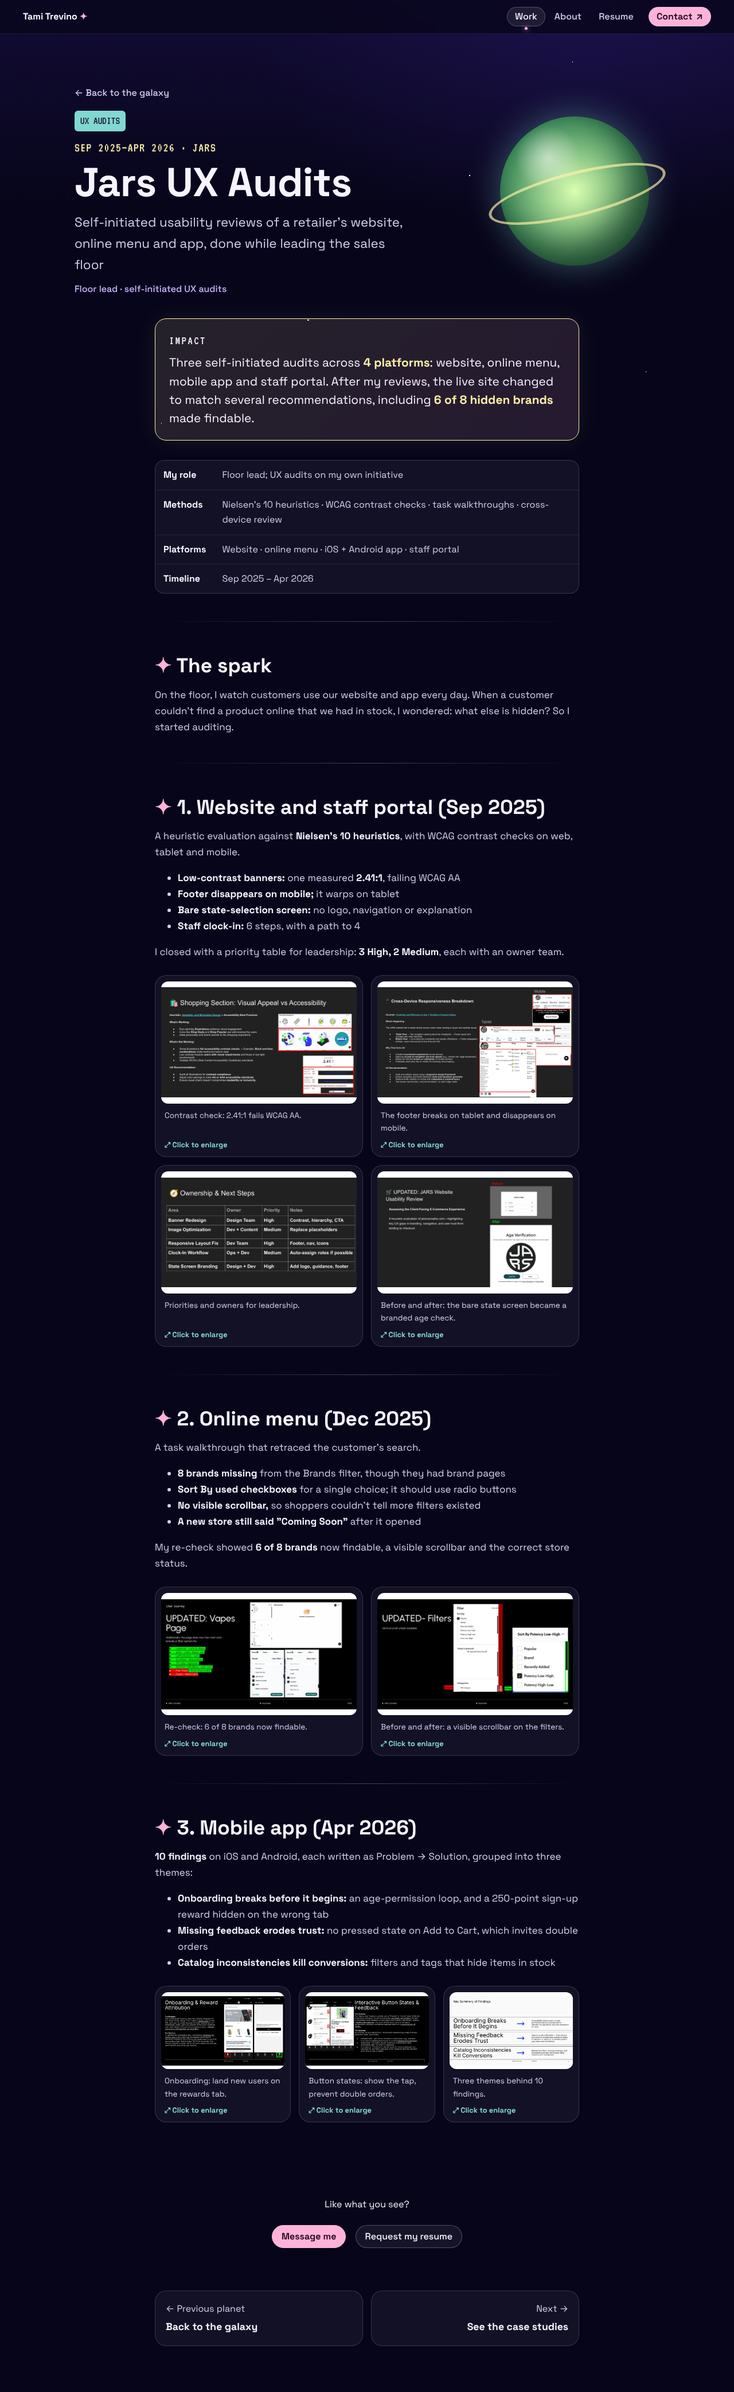
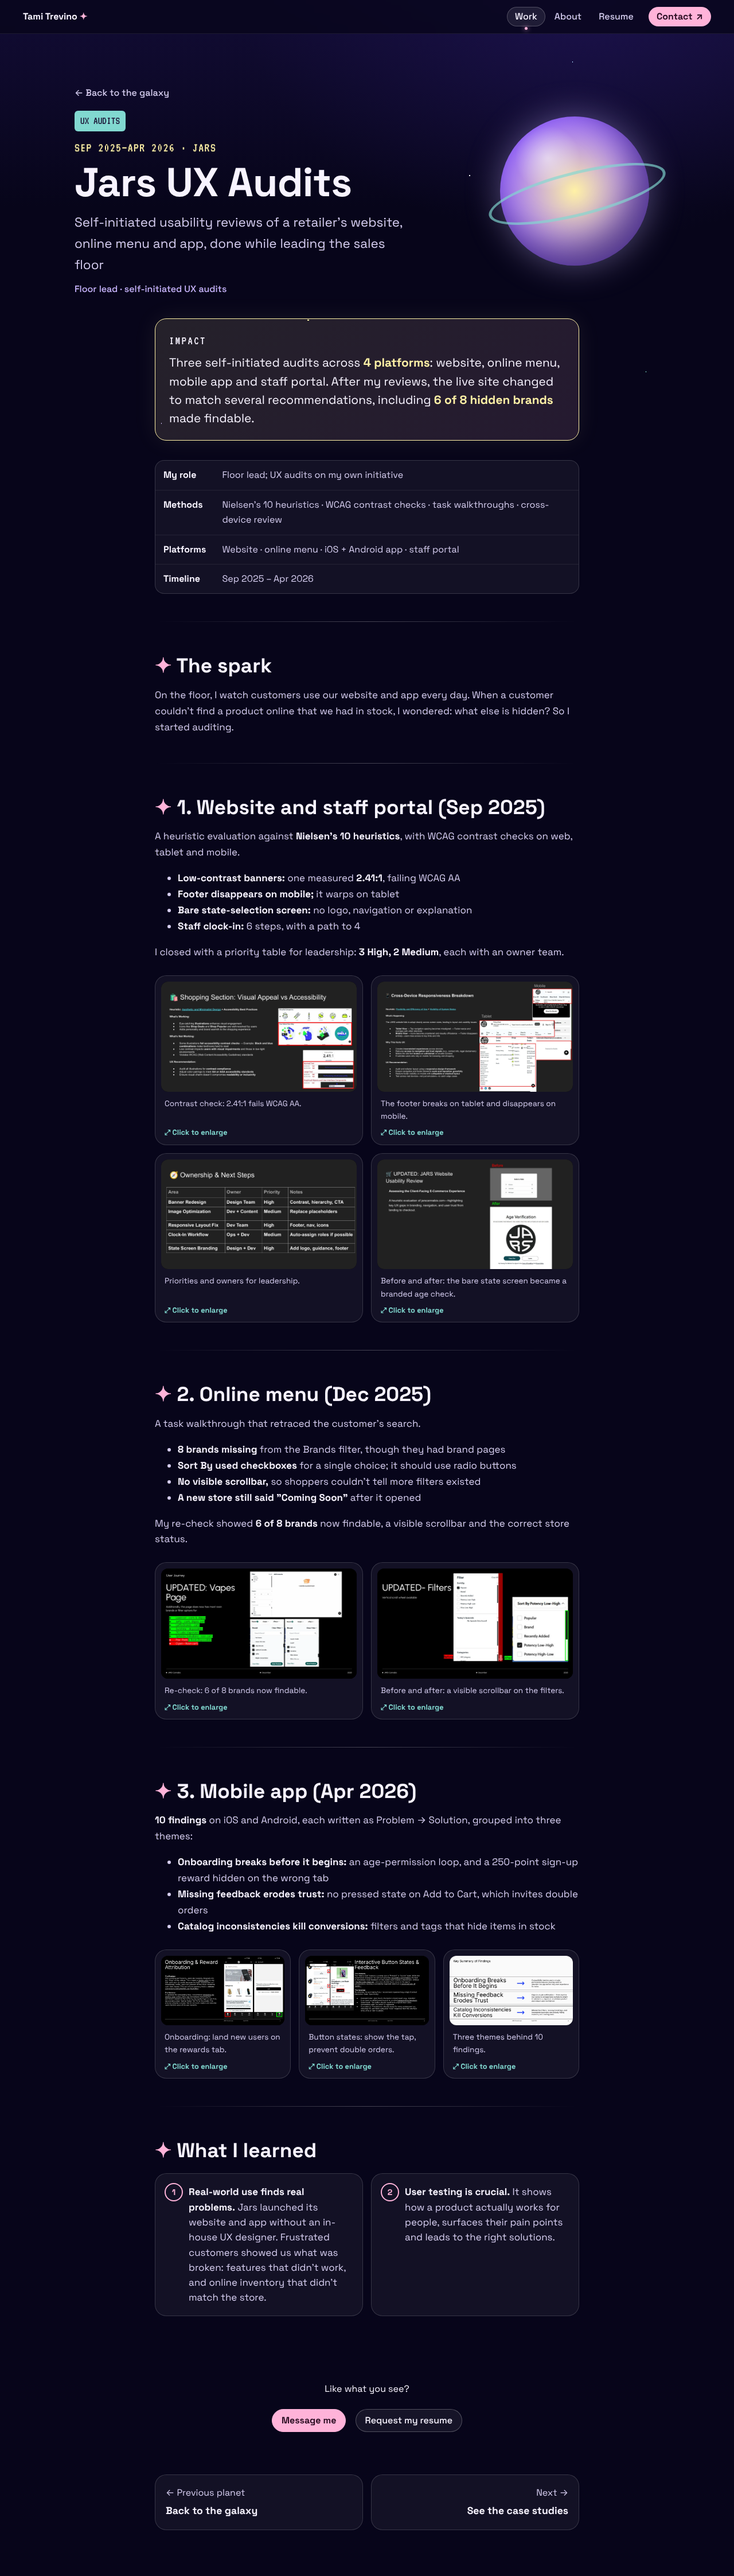
Jars: slide frames match 16:9, no white bars
Claude-Session: https://claude.ai/code/session_0126NKCS3TtysyaQaZxswtoT

diff --git a/site/case-studies/jars-ux-audits.html b/site/case-studies/jars-ux-audits.html
@@ -103,6 +103,7 @@
   .pair.wide figure img{height:auto;aspect-ratio:16/10}
   .pair.portrait .gallery{max-width:560px}
   .pair.portrait figure img{height:auto;aspect-ratio:1493/2000}
+  .pair.slides figure img{aspect-ratio:16/9;background:#000}
   .pair.trio .gallery{grid-template-columns:repeat(3,minmax(0,1fr))}
   @media (max-width:640px){.pair.trio .gallery{grid-template-columns:1fr 1fr}}
   figure img{cursor:zoom-in;transition:transform .35s}
@@ -208,7 +209,7 @@
 <li><strong>Staff clock-in:</strong> 6 steps, with a path to 4</li>
 </ul>
 <p>I closed with a priority table for leadership: <strong>3 High, 2 Medium</strong>, each with an owner team.</p>
-<div class="pair wide">
+<div class="pair wide slides">
 <div class="gallery"><figure><img src="../assets/jars/j01-contrast.webp" alt="Contrast check: 2.41:1 fails WCAG AA." loading="lazy" decoding="async"><figcaption>Contrast check: 2.41:1 fails WCAG AA.</figcaption></figure>
 <figure><img src="../assets/jars/j02-responsive.webp" alt="The footer breaks on tablet and disappears on mobile." loading="lazy" decoding="async"><figcaption>The footer breaks on tablet and disappears on mobile.</figcaption></figure>
 <figure><img src="../assets/jars/j03-priorities.webp" alt="Priorities and owners for leadership." loading="lazy" decoding="async"><figcaption>Priorities and owners for leadership.</figcaption></figure>
@@ -224,7 +225,7 @@
 <li><strong>A new store still said "Coming Soon"</strong> after it opened</li>
 </ul>
 <p>My re-check showed <strong>6 of 8 brands</strong> now findable, a visible scrollbar and the correct store status.</p>
-<div class="pair wide">
+<div class="pair wide slides">
 <div class="gallery"><figure><img src="../assets/jars/j05-brands-recheck.webp" alt="Re-check: 6 of 8 brands now findable." loading="lazy" decoding="async"><figcaption>Re-check: 6 of 8 brands now findable.</figcaption></figure>
 <figure><img src="../assets/jars/j06-filters-before-after.webp" alt="Before and after: a visible scrollbar on the filters." loading="lazy" decoding="async"><figcaption>Before and after: a visible scrollbar on the filters.</figcaption></figure></div>
 </div>
@@ -236,7 +237,7 @@
 <li><strong>Missing feedback erodes trust:</strong> no pressed state on Add to Cart, which invites double orders</li>
 <li><strong>Catalog inconsistencies kill conversions:</strong> filters and tags that hide items in stock</li>
 </ul>
-<div class="pair wide trio">
+<div class="pair wide trio slides">
 <div class="gallery"><figure><img src="../assets/jars/j07-onboarding.webp" alt="Onboarding: land new users on the rewards tab." loading="lazy" decoding="async"><figcaption>Onboarding: land new users on the rewards tab.</figcaption></figure>
 <figure><img src="../assets/jars/j08-button-states.webp" alt="Button states: show the tap, prevent double orders." loading="lazy" decoding="async"><figcaption>Button states: show the tap, prevent double orders.</figcaption></figure>
 <figure><img src="../assets/jars/j09-summary.webp" alt="Three themes behind 10 findings." loading="lazy" decoding="async"><figcaption>Three themes behind 10 findings.</figcaption></figure></div>

diff --git a/site/case-studies/bond-centre.html b/site/case-studies/bond-centre.html
@@ -103,6 +103,7 @@
   .pair.wide figure img{height:auto;aspect-ratio:16/10}
   .pair.portrait .gallery{max-width:560px}
   .pair.portrait figure img{height:auto;aspect-ratio:1493/2000}
+  .pair.slides figure img{aspect-ratio:16/9;background:#000}
   .pair.trio .gallery{grid-template-columns:repeat(3,minmax(0,1fr))}
   @media (max-width:640px){.pair.trio .gallery{grid-template-columns:1fr 1fr}}
   figure img{cursor:zoom-in;transition:transform .35s}

diff --git a/site/case-studies/dental.html b/site/case-studies/dental.html
@@ -103,6 +103,7 @@
   .pair.wide figure img{height:auto;aspect-ratio:16/10}
   .pair.portrait .gallery{max-width:560px}
   .pair.portrait figure img{height:auto;aspect-ratio:1493/2000}
+  .pair.slides figure img{aspect-ratio:16/9;background:#000}
   .pair.trio .gallery{grid-template-columns:repeat(3,minmax(0,1fr))}
   @media (max-width:640px){.pair.trio .gallery{grid-template-columns:1fr 1fr}}
   figure img{cursor:zoom-in;transition:transform .35s}

diff --git a/site/case-studies/fridays-off.html b/site/case-studies/fridays-off.html
@@ -103,6 +103,7 @@
   .pair.wide figure img{height:auto;aspect-ratio:16/10}
   .pair.portrait .gallery{max-width:560px}
   .pair.portrait figure img{height:auto;aspect-ratio:1493/2000}
+  .pair.slides figure img{aspect-ratio:16/9;background:#000}
   .pair.trio .gallery{grid-template-columns:repeat(3,minmax(0,1fr))}
   @media (max-width:640px){.pair.trio .gallery{grid-template-columns:1fr 1fr}}
   figure img{cursor:zoom-in;transition:transform .35s}

diff --git a/site/case-studies/project-insight.html b/site/case-studies/project-insight.html
@@ -103,6 +103,7 @@
   .pair.wide figure img{height:auto;aspect-ratio:16/10}
   .pair.portrait .gallery{max-width:560px}
   .pair.portrait figure img{height:auto;aspect-ratio:1493/2000}
+  .pair.slides figure img{aspect-ratio:16/9;background:#000}
   .pair.trio .gallery{grid-template-columns:repeat(3,minmax(0,1fr))}
   @media (max-width:640px){.pair.trio .gallery{grid-template-columns:1fr 1fr}}
   figure img{cursor:zoom-in;transition:transform .35s}

diff --git a/tools/case_study_template.html b/tools/case_study_template.html
@@ -103,6 +103,7 @@
   .pair.wide figure img{height:auto;aspect-ratio:16/10}
   .pair.portrait .gallery{max-width:560px}
   .pair.portrait figure img{height:auto;aspect-ratio:1493/2000}
+  .pair.slides figure img{aspect-ratio:16/9;background:#000}
   .pair.trio .gallery{grid-template-columns:repeat(3,minmax(0,1fr))}
   @media (max-width:640px){.pair.trio .gallery{grid-template-columns:1fr 1fr}}
   figure img{cursor:zoom-in;transition:transform .35s}

diff --git a/content/case-studies/05-jars-ux-audits.md b/content/case-studies/05-jars-ux-audits.md
@@ -43,7 +43,7 @@ A heuristic evaluation against **Nielsen's 10 heuristics**, with WCAG contrast c
 
 I closed with a priority table for leadership: **3 High, 2 Medium**, each with an owner team.
 
-<div class="pair wide" markdown="1">
+<div class="pair wide slides" markdown="1">
 ![Contrast check: 2.41:1 fails WCAG AA.](../../assets/jars/j01-contrast.png)
 ![The footer breaks on tablet and disappears on mobile.](../../assets/jars/j02-responsive.png)
 ![Priorities and owners for leadership.](../../assets/jars/j03-priorities.png)
@@ -63,7 +63,7 @@ A task walkthrough that retraced the customer's search.
 
 My re-check showed **6 of 8 brands** now findable, a visible scrollbar and the correct store status.
 
-<div class="pair wide" markdown="1">
+<div class="pair wide slides" markdown="1">
 ![Re-check: 6 of 8 brands now findable.](../../assets/jars/j05-brands-recheck.png)
 ![Before and after: a visible scrollbar on the filters.](../../assets/jars/j06-filters-before-after.png)
 </div>
@@ -78,7 +78,7 @@ My re-check showed **6 of 8 brands** now findable, a visible scrollbar and the c
 - **Missing feedback erodes trust:** no pressed state on Add to Cart, which invites double orders
 - **Catalog inconsistencies kill conversions:** filters and tags that hide items in stock
 
-<div class="pair wide trio" markdown="1">
+<div class="pair wide trio slides" markdown="1">
 ![Onboarding: land new users on the rewards tab.](../../assets/jars/j07-onboarding.png)
 ![Button states: show the tap, prevent double orders.](../../assets/jars/j08-button-states.png)
 ![Three themes behind 10 findings.](../../assets/jars/j09-summary.png)
